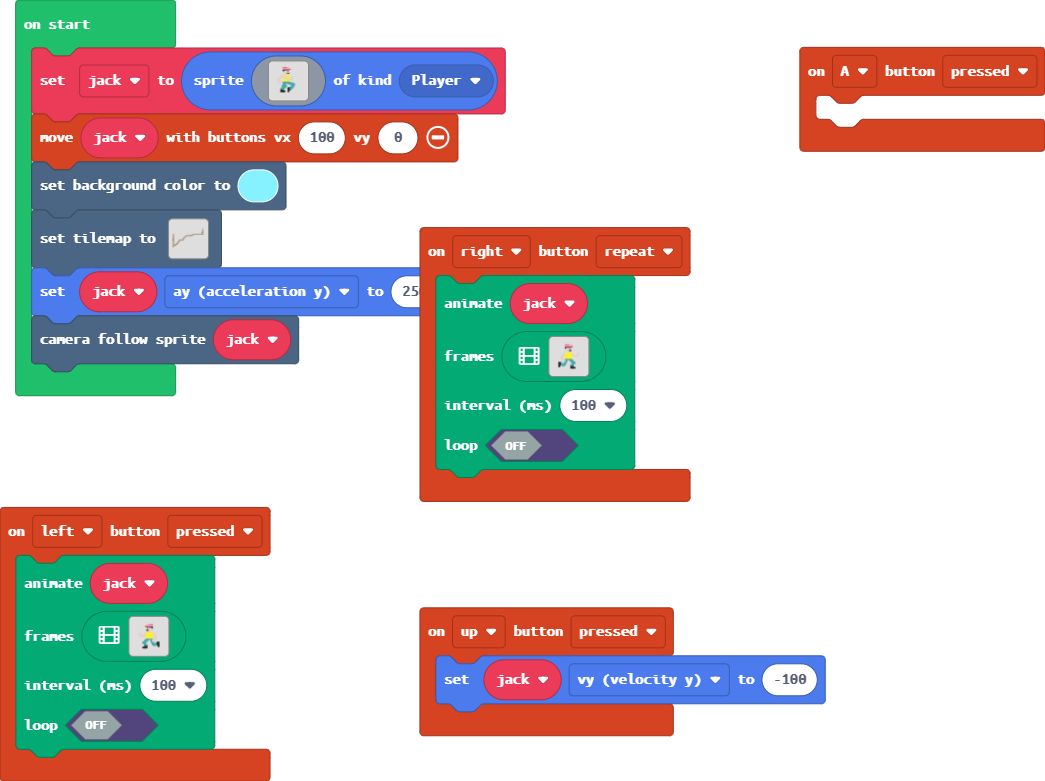
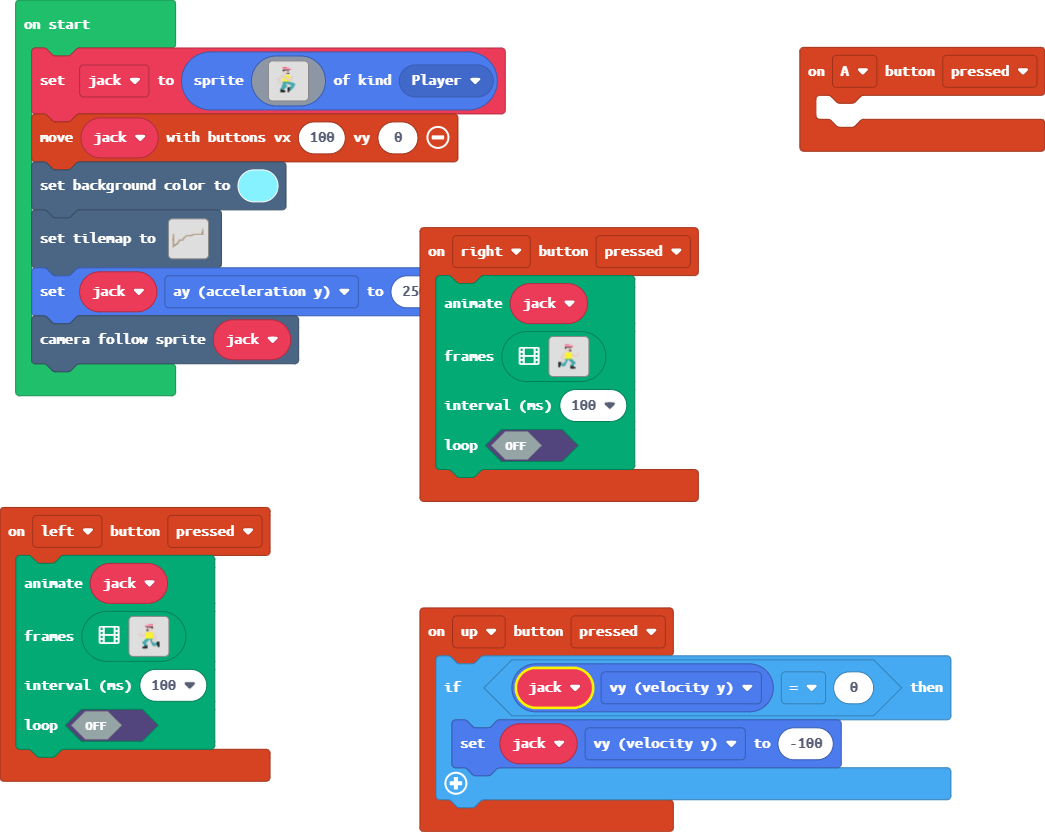
Update main.blocks, main.ts

diff --git a/main.ts b/main.ts
@@ -1,139 +1,10 @@
 controller.up.onEvent(ControllerButtonEvent.Pressed, function () {
-    jack.vy = -100
+    if (jack.vy == 0) {
+        jack.vy = -100
+    }
 })
 controller.A.onEvent(ControllerButtonEvent.Pressed, function () {
 	
-})
-controller.right.onEvent(ControllerButtonEvent.Repeated, function () {
-    animation.runImageAnimation(
-    jack,
-    [img`
-        ..............................
-        ..............................
-        ..............................
-        ..............................
-        ..............................
-        ..........22222333............
-        ..........33333333............
-        ..........3333333322..........
-        ..........ffffffff............
-        ..........ffdddddd............
-        ..........ddddddfd............
-        ..........ddddddddd...........
-        ..........dddddfff............
-        .............ddd..............
-        .............ddd..............
-        ..........555555555.......dd..
-        ........dd555555555d......dd..
-        .......ddd555555555dd....ddd..
-        ......ddd.555555555dddd.ddd...
-        ......dd..555555555.dddddd....
-        .....ddd..555555555...ddd.....
-        .....ddd..555555555...........
-        .....ddd..555555555...........
-        ......ddd.666666666...........
-        ......ddddd66..66666..........
-        ........ddd66...66666.........
-        .........dd66....66666........
-        ..fff6...666......66666.......
-        ..fff66.6666.......6666.......
-        ..fff666666.......6666........
-        ..fff666666......6666.........
-        ..ff..6666.......6666.........
-        ..ff.............ffff.........
-        .................ffffff.......
-        .................ffffff.......
-        ..............................
-        ..............................
-        ..............................
-        ..............................
-        ..............................
-        `,img`
-        ..............................
-        ..............................
-        ..............................
-        ..............................
-        ..........22222333............
-        ..........33333333............
-        ..........3333333322..........
-        ..........ffffffff............
-        ..........ffdddddd............
-        ..........ddddddfd............
-        ..........ddddddddd...........
-        ..........dddddfff............
-        .............ddd..............
-        .............ddd..............
-        ........dddd5555555...........
-        ......dddddddd55555..dd.......
-        .....dddd.5ddddd555.ddd.......
-        ....dddd..55ddddd55.ddd.......
-        ....ddd...555ddddddddd........
-        ...ddd....55555ddddddd........
-        ..dddd....555555ddd...........
-        ....ddd...555555555...........
-        .....ddd..666666666...........
-        .....ddd..6666666666666.......
-        .....dd...6666..666666666.....
-        ..........6666.....666666.....
-        .........666666......6666.....
-        .........666666.....6666......
-        .........66666.....66666......
-        ........666666..fff6666.......
-        .......66666....fff666........
-        .......6666.....fff66.........
-        .......ffff.....fff6..........
-        .......ffffff...ff............
-        .......ffffff...ff............
-        ..............................
-        ..............................
-        ..............................
-        ..............................
-        ..............................
-        `,img`
-        ..............................
-        ..............................
-        ..............................
-        .........22222333.............
-        .........33333333.............
-        .........3333333322...........
-        .........ffffffff.............
-        .........ffdddddd.............
-        .........ddddddfd.............
-        .........ddddddddd............
-        .........dddddfff.............
-        ............ddd...............
-        ............ddd...............
-        .........555555555.......dd...
-        .......dd555555555d......dd...
-        ......ddd555555555dd....ddd...
-        .....ddd.555555555dddd.ddd....
-        .....dd..555555555.dddddd.....
-        ....ddd..555555555...ddd......
-        ....ddd..555555555............
-        ....ddd..555555555............
-        .....ddd.666666666............
-        .....ddddd66..66666...........
-        .......ddd66...66666..........
-        ........dd66....66666.........
-        .fff6...666......66666........
-        .fff66.6666.......6666........
-        .fff666666.......6666.........
-        .fff666666......6666..........
-        .ff..6666.......6666..........
-        .ff.............ffff..........
-        ................ffffff........
-        ................ffffff........
-        ..............................
-        ..............................
-        ..............................
-        ..............................
-        ..............................
-        ..............................
-        ..............................
-        `],
-    100,
-    false
-    )
 })
 controller.left.onEvent(ControllerButtonEvent.Pressed, function () {
     animation.runImageAnimation(
@@ -254,6 +125,137 @@ controller.left.onEvent(ControllerButtonEvent.Pressed, function () {
         ..........ffff.............ff.
         ........ffffff................
         ........ffffff................
+        ..............................
+        ..............................
+        ..............................
+        ..............................
+        ..............................
+        ..............................
+        ..............................
+        `],
+    100,
+    false
+    )
+})
+controller.right.onEvent(ControllerButtonEvent.Pressed, function () {
+    animation.runImageAnimation(
+    jack,
+    [img`
+        ..............................
+        ..............................
+        ..............................
+        ..............................
+        ..............................
+        ..........22222333............
+        ..........33333333............
+        ..........3333333322..........
+        ..........ffffffff............
+        ..........ffdddddd............
+        ..........ddddddfd............
+        ..........ddddddddd...........
+        ..........dddddfff............
+        .............ddd..............
+        .............ddd..............
+        ..........555555555.......dd..
+        ........dd555555555d......dd..
+        .......ddd555555555dd....ddd..
+        ......ddd.555555555dddd.ddd...
+        ......dd..555555555.dddddd....
+        .....ddd..555555555...ddd.....
+        .....ddd..555555555...........
+        .....ddd..555555555...........
+        ......ddd.666666666...........
+        ......ddddd66..66666..........
+        ........ddd66...66666.........
+        .........dd66....66666........
+        ..fff6...666......66666.......
+        ..fff66.6666.......6666.......
+        ..fff666666.......6666........
+        ..fff666666......6666.........
+        ..ff..6666.......6666.........
+        ..ff.............ffff.........
+        .................ffffff.......
+        .................ffffff.......
+        ..............................
+        ..............................
+        ..............................
+        ..............................
+        ..............................
+        `,img`
+        ..............................
+        ..............................
+        ..............................
+        ..............................
+        ..........22222333............
+        ..........33333333............
+        ..........3333333322..........
+        ..........ffffffff............
+        ..........ffdddddd............
+        ..........ddddddfd............
+        ..........ddddddddd...........
+        ..........dddddfff............
+        .............ddd..............
+        .............ddd..............
+        ........dddd5555555...........
+        ......dddddddd55555..dd.......
+        .....dddd.5ddddd555.ddd.......
+        ....dddd..55ddddd55.ddd.......
+        ....ddd...555ddddddddd........
+        ...ddd....55555ddddddd........
+        ..dddd....555555ddd...........
+        ....ddd...555555555...........
+        .....ddd..666666666...........
+        .....ddd..6666666666666.......
+        .....dd...6666..666666666.....
+        ..........6666.....666666.....
+        .........666666......6666.....
+        .........666666.....6666......
+        .........66666.....66666......
+        ........666666..fff6666.......
+        .......66666....fff666........
+        .......6666.....fff66.........
+        .......ffff.....fff6..........
+        .......ffffff...ff............
+        .......ffffff...ff............
+        ..............................
+        ..............................
+        ..............................
+        ..............................
+        ..............................
+        `,img`
+        ..............................
+        ..............................
+        ..............................
+        .........22222333.............
+        .........33333333.............
+        .........3333333322...........
+        .........ffffffff.............
+        .........ffdddddd.............
+        .........ddddddfd.............
+        .........ddddddddd............
+        .........dddddfff.............
+        ............ddd...............
+        ............ddd...............
+        .........555555555.......dd...
+        .......dd555555555d......dd...
+        ......ddd555555555dd....ddd...
+        .....ddd.555555555dddd.ddd....
+        .....dd..555555555.dddddd.....
+        ....ddd..555555555...ddd......
+        ....ddd..555555555............
+        ....ddd..555555555............
+        .....ddd.666666666............
+        .....ddddd66..66666...........
+        .......ddd66...66666..........
+        ........dd66....66666.........
+        .fff6...666......66666........
+        .fff66.6666.......6666........
+        .fff666666.......6666.........
+        .fff666666......6666..........
+        .ff..6666.......6666..........
+        .ff.............ffff..........
+        ................ffffff........
+        ................ffffff........
         ..............................
         ..............................
         ..............................
